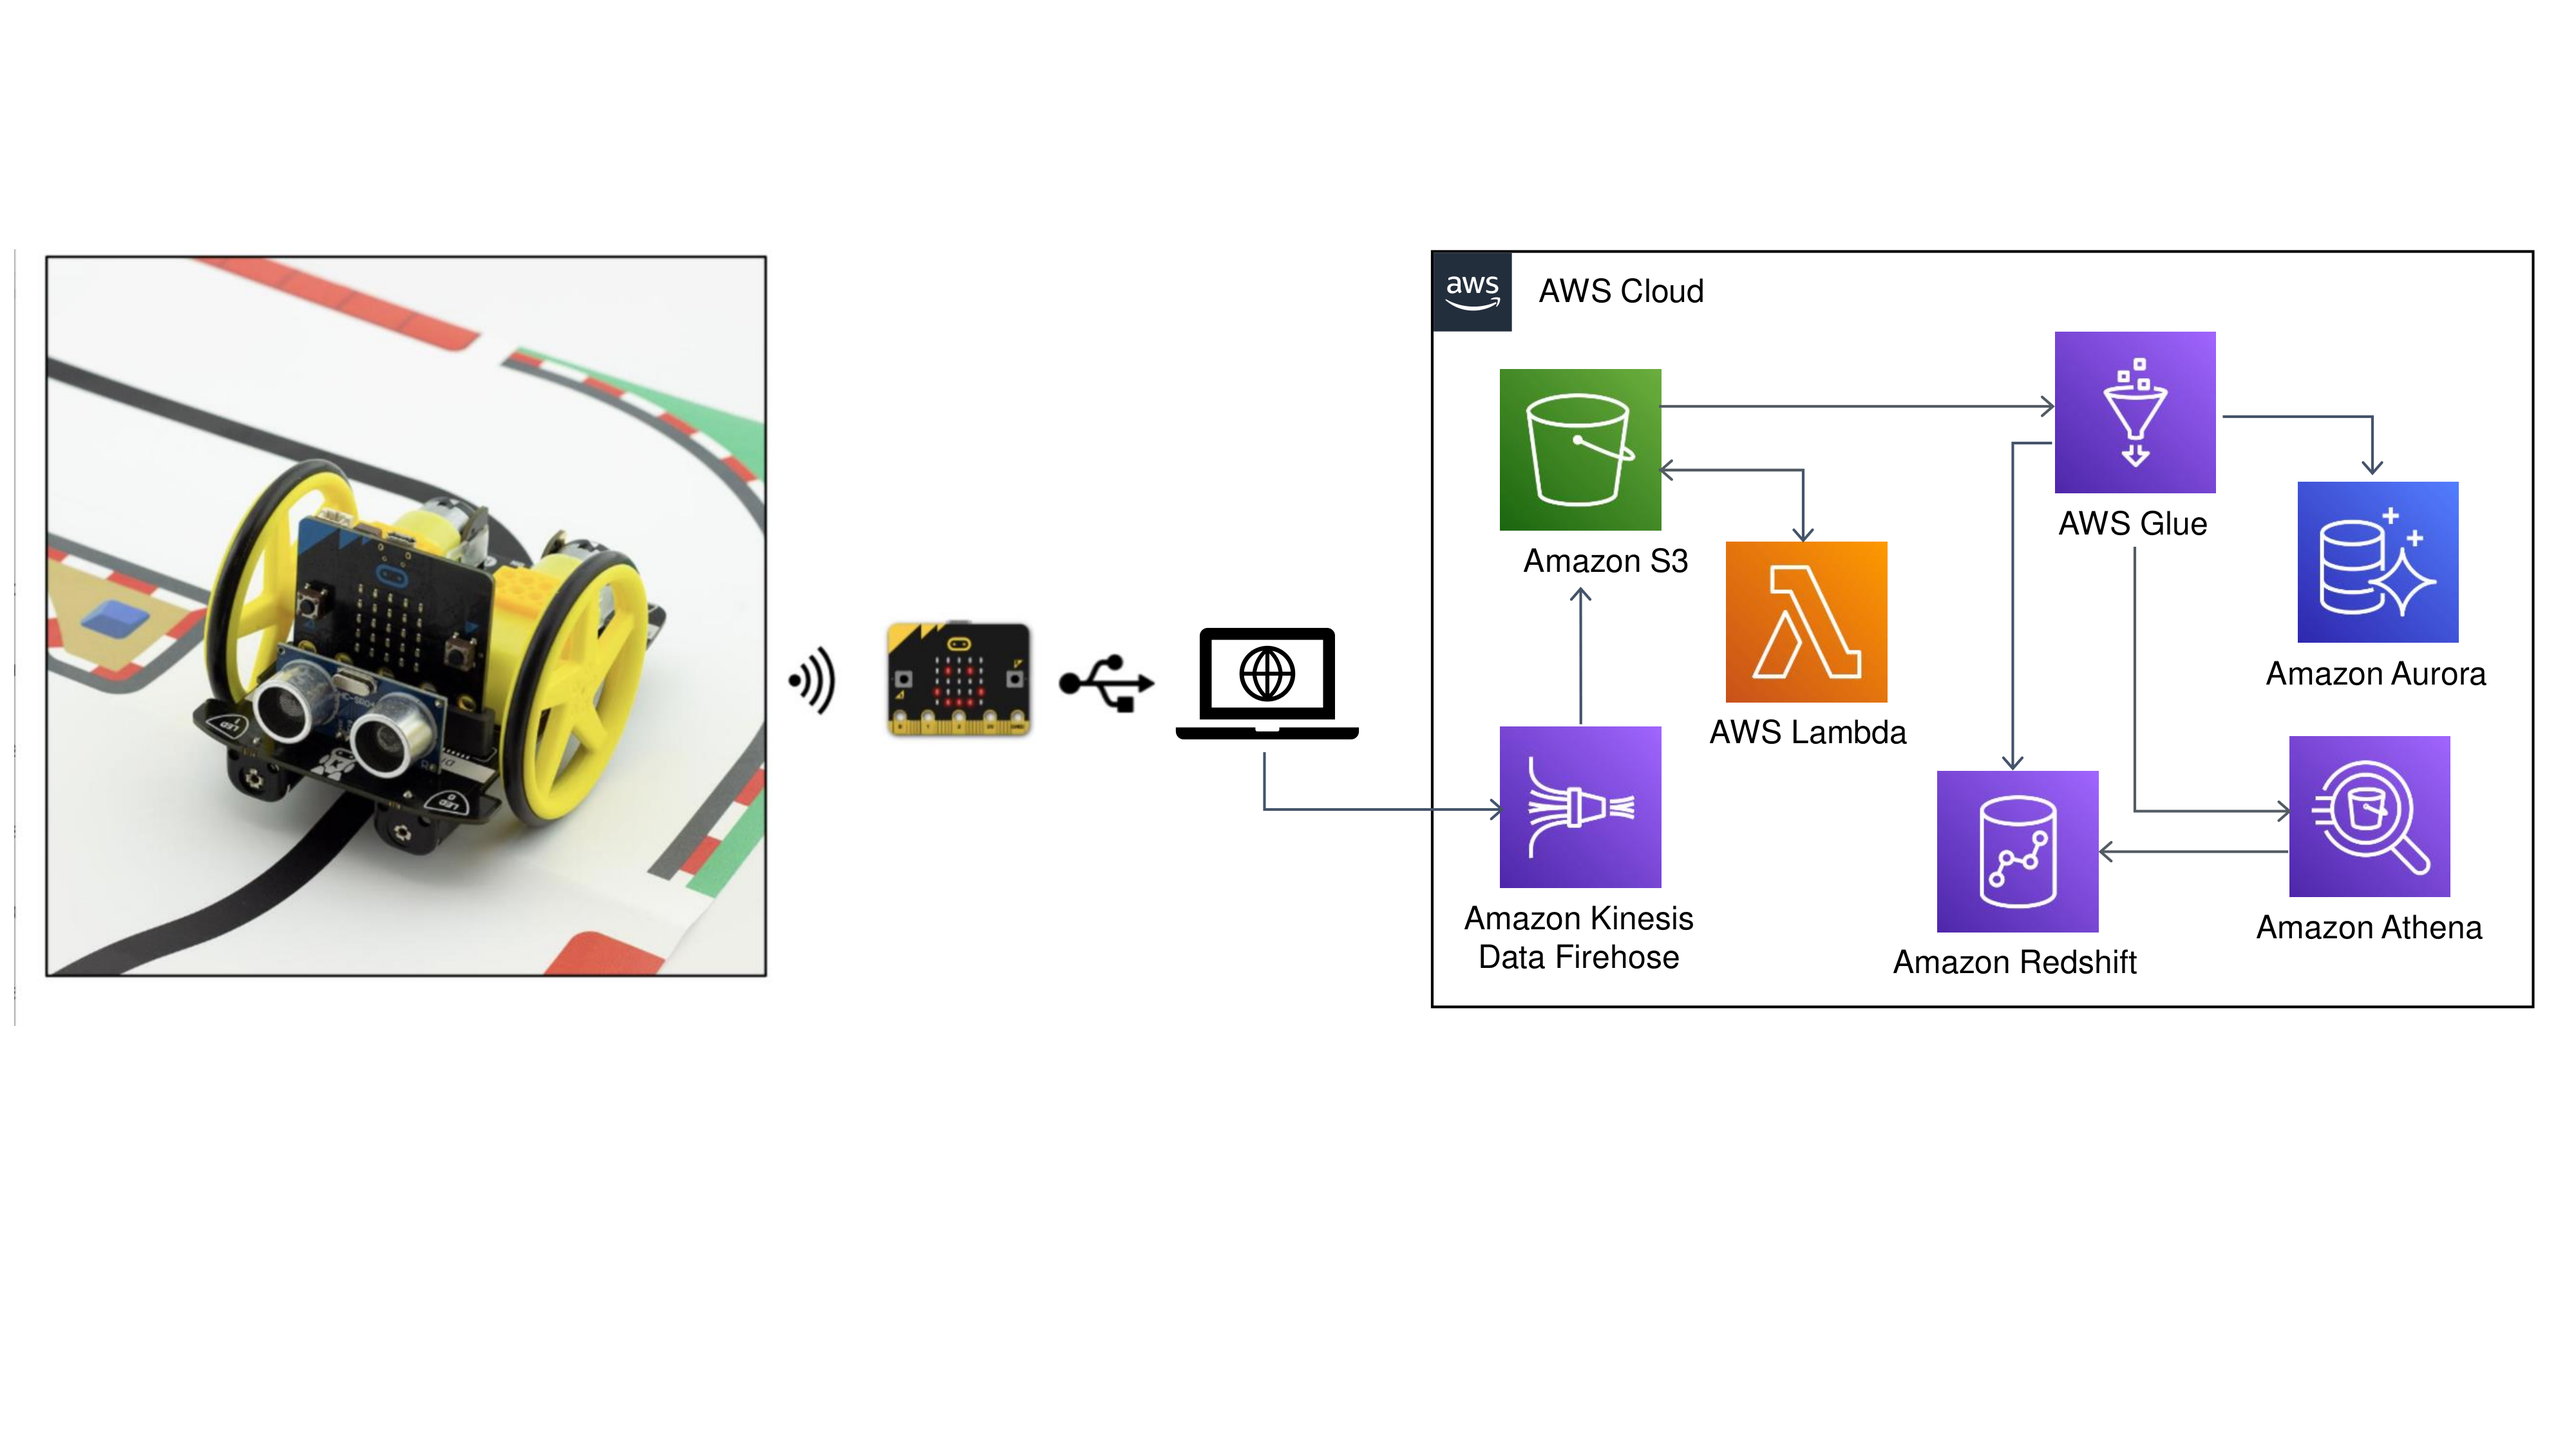
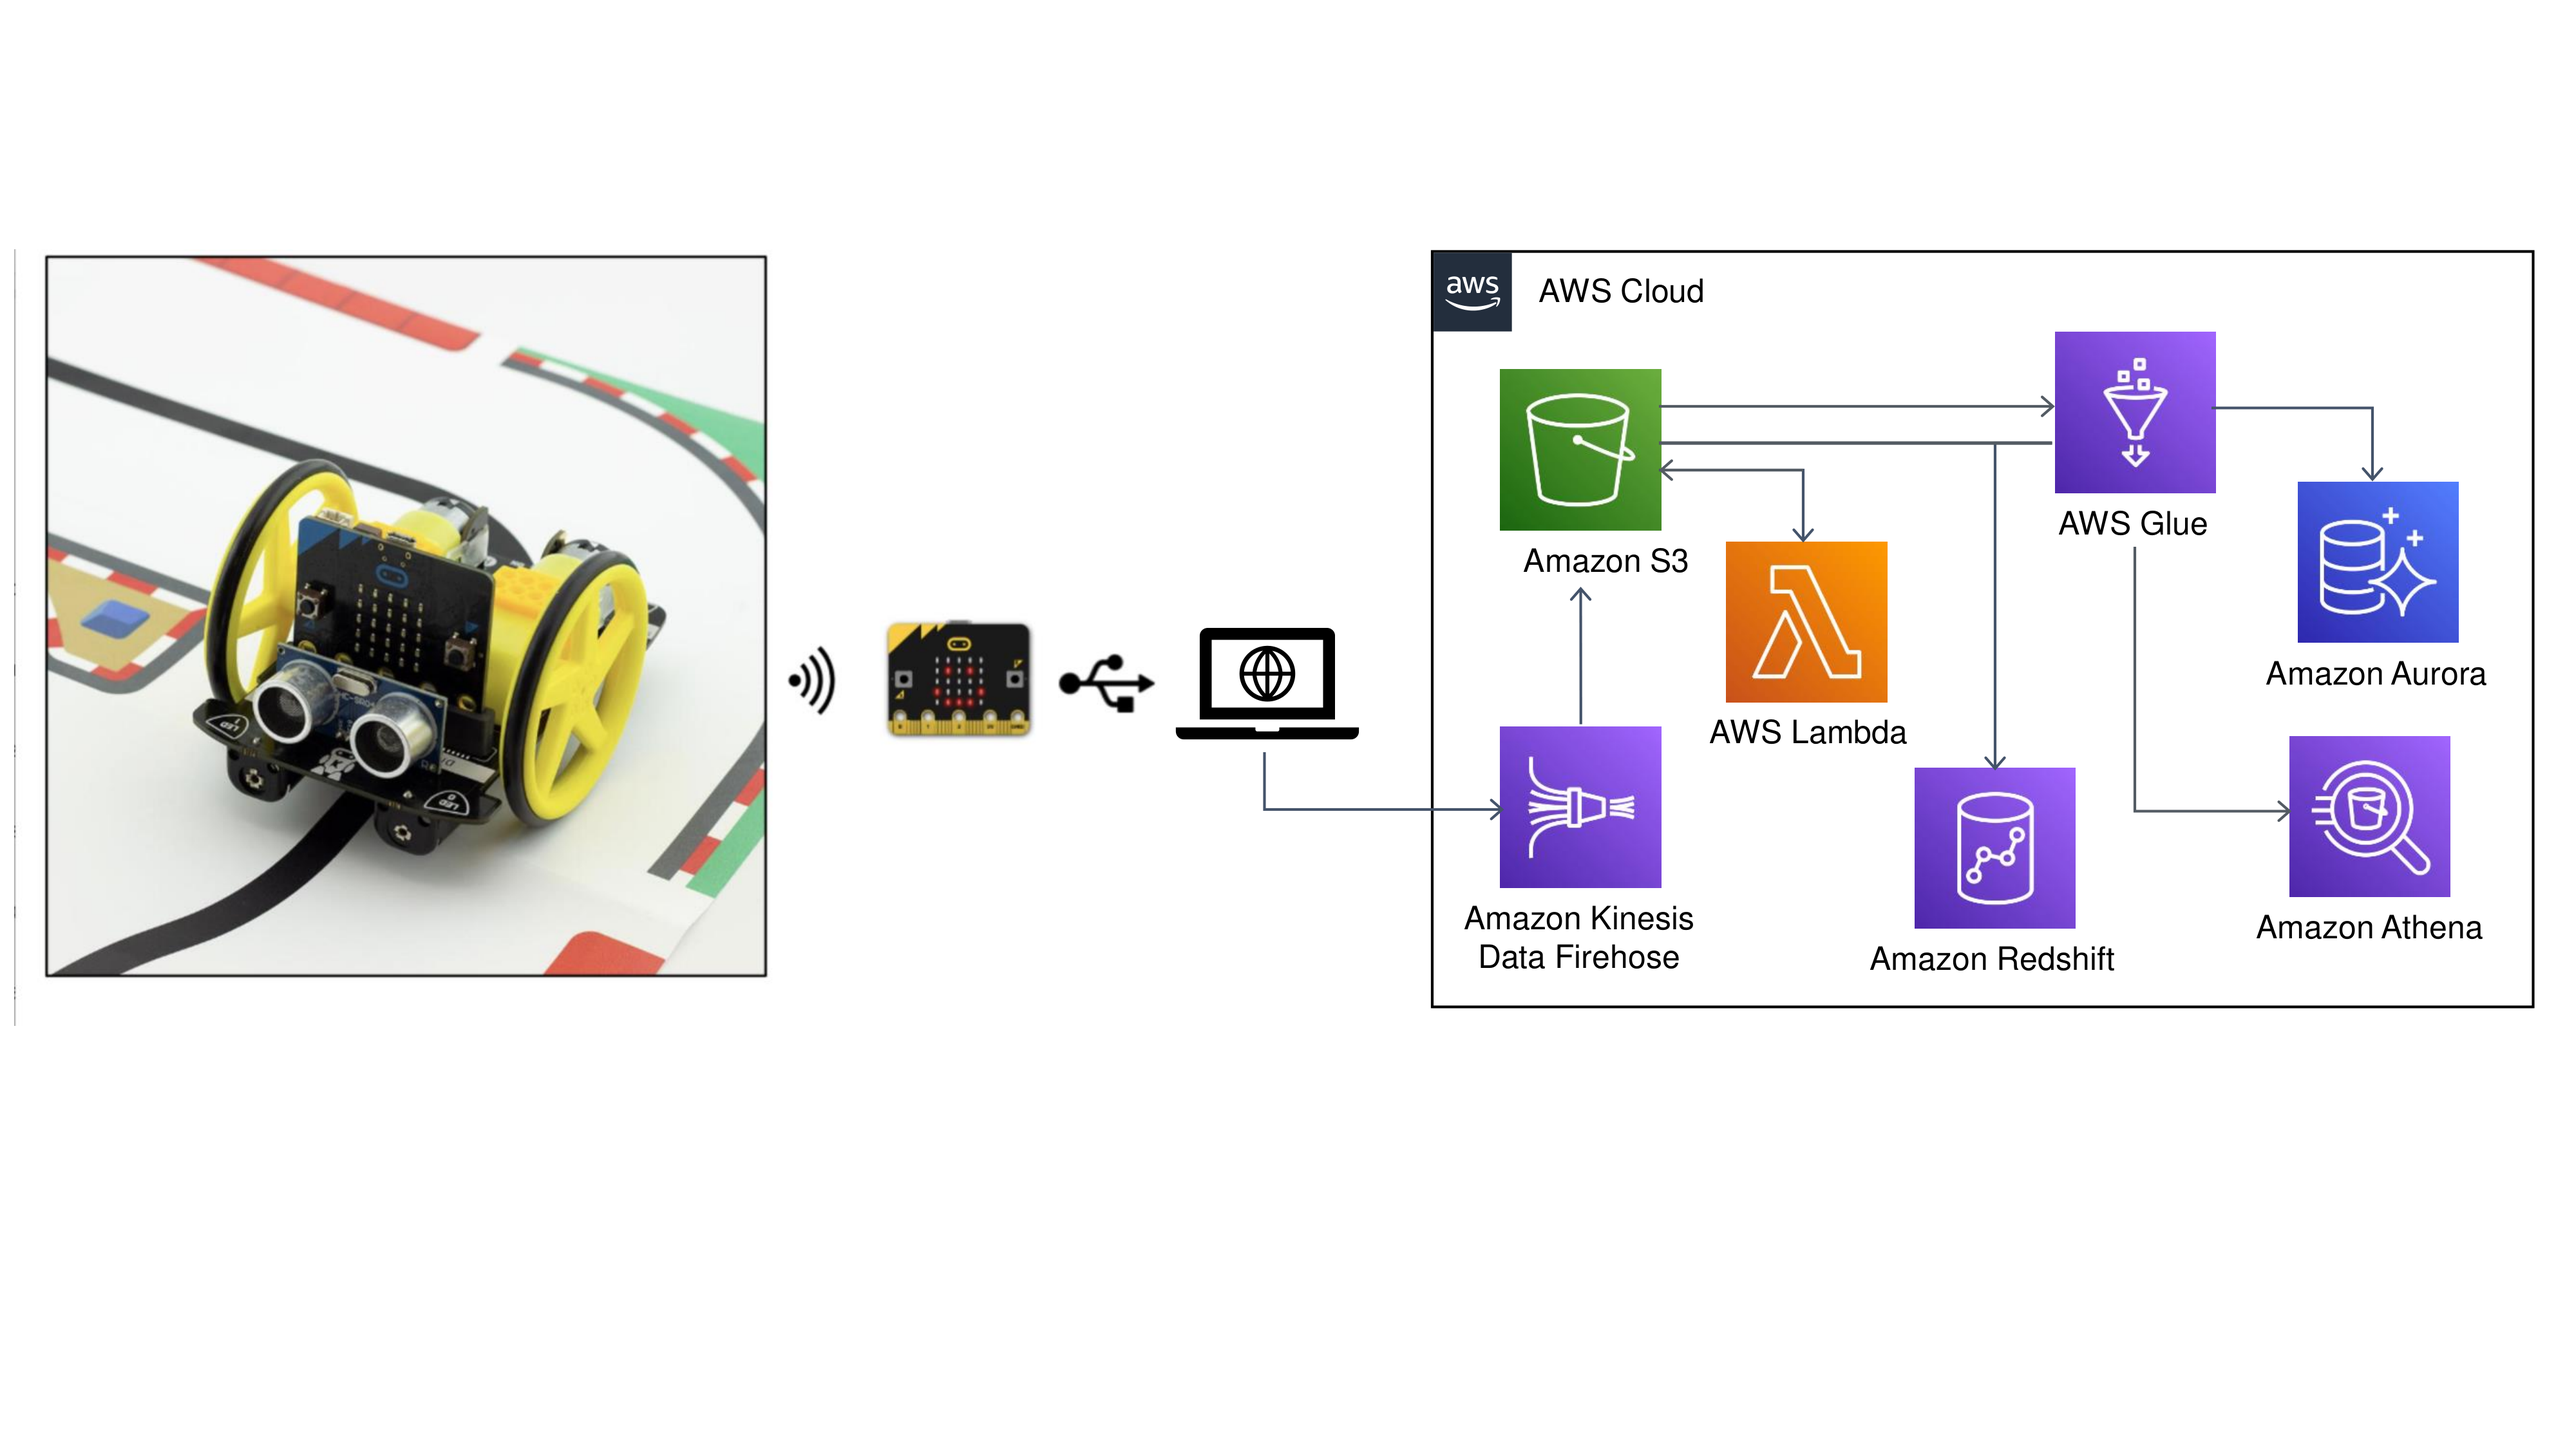
Add Aurora RDS

Changed region(s): [[0.7188, 0.5289, 0.8438, 0.6844], [0.875, 0.28, 0.9062, 0.3111]]

diff --git a/microbit/aurora/stack.py b/microbit/aurora/stack.py
@@ -1,0 +1,108 @@
+import os
+from aws_cdk import core
+from aws_cdk import (
+    aws_iam as iam,
+    aws_rds as rds,
+    aws_ec2 as ec2,
+)
+from microbit.common_stack import CommonStack
+from microbit.data_lake.base import BaseDataLakeBucket
+# from microbit.aurora.base import (BaseAuroraBucket, RDSRole)
+from microbit import active_environment
+
+
+class RDSRole(iam.Role):
+    def __init__(
+            self,
+            scope: core.Construct,
+            data_lake_raw_bucket: BaseDataLakeBucket,
+            data_lake_processed: BaseDataLakeBucket,
+            **kwargs,
+    ) -> None:
+        self.deploy_env = active_environment
+        self.data_lake_raw_bucket = data_lake_raw_bucket
+        self.data_lake_processed = data_lake_processed
+        super().__init__(
+            scope,
+            id=f"iam-{self.deploy_env}-data-lake-rds-role",
+            assumed_by=iam.ServicePrincipal("rds.amazonaws.com"),
+            description="Role to allow RDS to save data to data lake",
+        )
+        self.add_policy()
+
+    def add_policy(self):
+        policy = iam.Policy(
+            self,
+            id=f"iam-{self.deploy_env}-data-lake-rds-policy",
+            policy_name=f"iam-{self.deploy_env}-data-lake-rds-policy",
+            statements=[
+                iam.PolicyStatement(
+                    actions=[
+                        "s3:PutObjectTagging",
+                        "s3:DeleteObject",
+                        "s3:ListBucket",
+                        "s3:PutObject",
+                    ],
+                    resources=[
+                        self.data_lake_raw.bucket_arn,
+                        f"{self.data_lake_raw.bucket_arn}/*",
+                        self.data_lake_processed.bucket_arn,
+                        f"{self.data_lake_processed.bucket_arn}/*",
+                    ],
+                )
+            ],
+        )
+        self.attach_inline_policy(policy)
+
+        return policy
+
+
+class RdsStack(core.Stack):
+    def __init__(
+            self,
+            scope: core.Construct,
+            common_stack: CommonStack,
+            data_lake_raw_bucket: BaseDataLakeBucket,
+            data_lake_processed: BaseDataLakeBucket,
+            **kwargs,
+    ) -> None:
+        self.common_stack = common_stack
+        self.deploy_env = os.environ["ENVIRONMENT"]
+        self.data_lake_raw_bucket = data_lake_raw_bucket
+        self.data_lake_processed = data_lake_processed
+        super().__init__(scope, id=f"{self.deploy_env}-rds-aurora-stack", **kwargs)
+
+        import_bucket = self.data_lake_processed
+        # export_bucket = s3.Bucket(self, "exportbucket")
+
+        cluster = rds.DatabaseCluster(self, "Database",
+                                      engine=rds.DatabaseClusterEngine.aurora_mysql(
+                                          version=rds.AuroraMysqlEngineVersion.VER_2_08_1),
+                                      # credentials=rds.Credentials.from_generated_secret("clusteradmin"),
+                                      # Optional - will default to 'admin' username and generated password
+                                      instance_props=rds.InstanceProps(
+                                          # optional , defaults to t3.medium
+                                          instance_type=ec2.InstanceType.of(ec2.InstanceClass.BURSTABLE2,
+                                                                            ec2.InstanceSize.SMALL),
+                                          vpc_subnets=ec2.SubnetSelection(subnet_type=ec2.SubnetType.PRIVATE),
+                                          vpc=self.common_stack.custom_vpc, ), s3_import_buckets=[import_bucket],
+                                      # s3_export_buckets = [export_bucket]
+                                      )
+
+        instance = rds.DatabaseInstance(self, "Instance",
+                                        engine=rds.DatabaseInstanceEngine.oracle_se2(
+                                            version=rds.OracleEngineVersion.VER_19_0_0_0_2020_04_R1),
+                                        # optional, defaults to m5.large
+                                        instance_type=ec2.InstanceType.of(
+                                            ec2.InstanceClass.BURSTABLE3,
+                                            ec2.InstanceSize.SMALL),
+                                        # credentials=rds.Credentials.from_generated_secret("syscdk"),
+                                        # Optional - will default to 'admin' username and generated password
+                                        vpc=self.common_stack.custom_vpc,
+                                        vpc_subnets=ec2.SubnetSelection(
+                                            subnet_type=ec2.SubnetType.PRIVATE
+                                        )
+                                        )
+
+        roles = [RDSRole(self, self.data_lake_raw, self.data_lake_processed)],
+        instance.grant_connect(roles)

diff --git a/app.py b/app.py
@@ -7,6 +7,7 @@ from microbit.kinesis.stack import KinesisStack
 from microbit.lambda_functions.stack import LambdaFunctionsStack
 from microbit.glue_catalog.stack import GlueCatalogStack
 from microbit.athena.stack import AthenaStack
+from microbit.aurora.stack import RdsStack
 from microbit.redshift.stack import RedshiftStack
 
 app = core.App()
@@ -24,6 +25,11 @@ glue_catalog = GlueCatalogStack(
     data_lake_processed=data_lake.data_lake_processed_bucket,
 )
 # athena_stack = AthenaStack(app)
+rds_aurora = RdsStack(
+    app,
+    data_lake_raw=data_lake.data_lake_raw_bucket,
+    data_lake_processed=data_lake.data_lake_processed_bucket,
+)
 redshift = RedshiftStack(
     app,
     data_lake_raw=data_lake.data_lake_raw_bucket,
